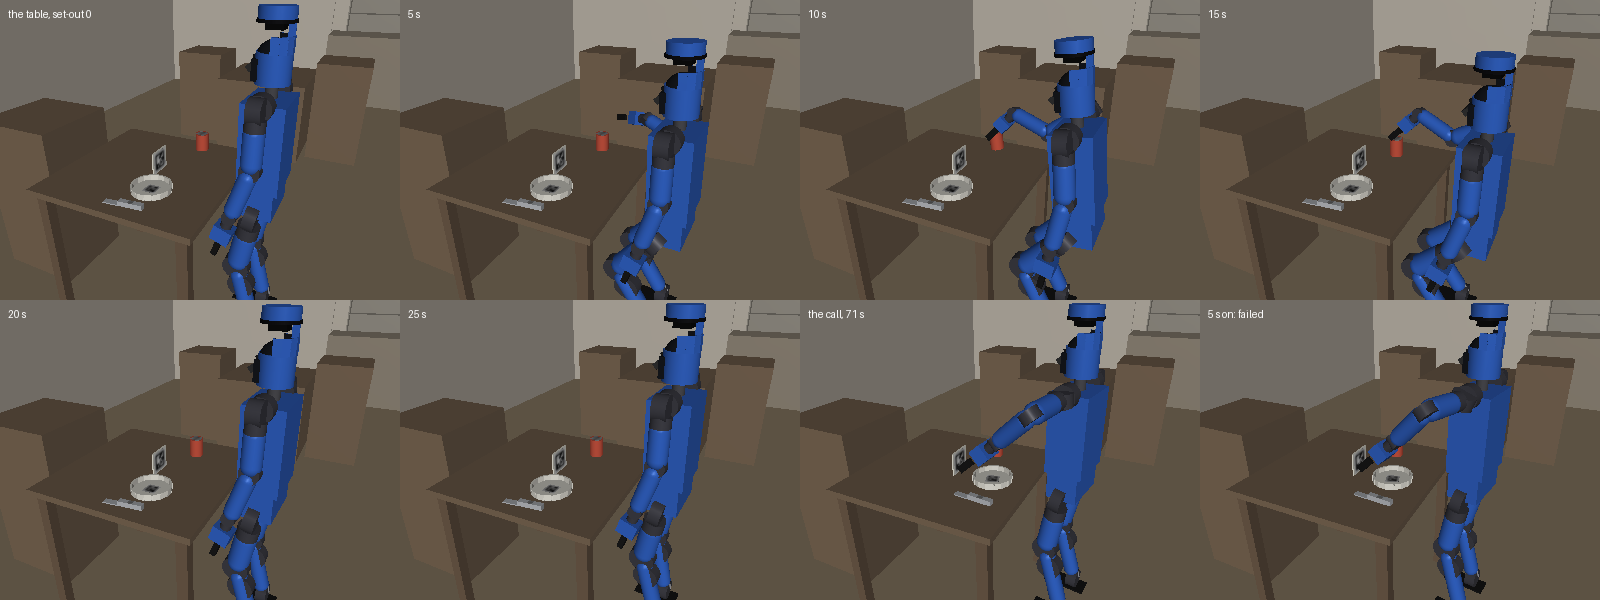
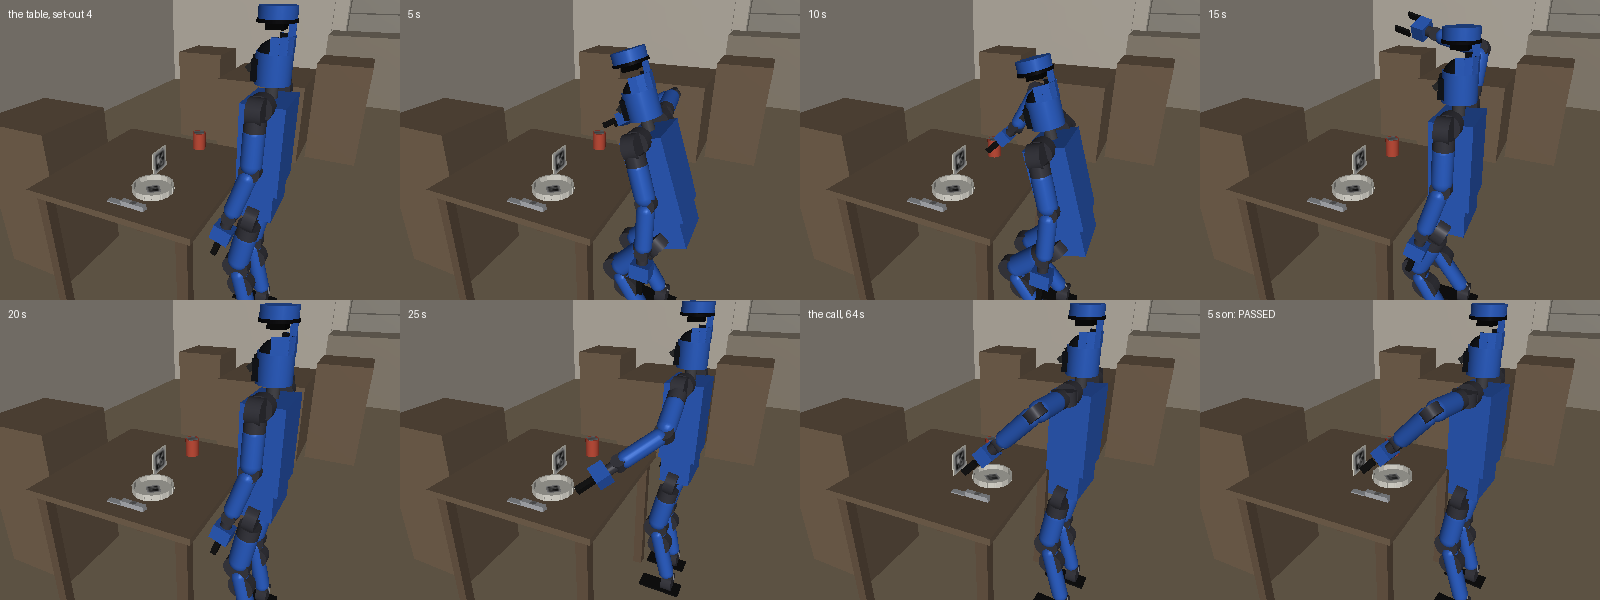
The table's procedure folds each arm before its piece is read and steps 0.26 m aside, and the docs say what the hands' fixes bought (#560)
Flown on one pod (a Threadripper 3970X, osmesa), before (fcfe05f) and after
the four fixes (04174b8):
- the checks at set-outs 0-7: the lid 6 to 7, the drawer 4 and 4, the door
  5 and 5, the cube 4 to 5, the table 0 to 1 (set-out 4 laid whole);
- the served jobs from the tour: the drawer 7 and 7, the door 8 and 8, the
  chest 5 and 5;
- the station: 36 of 36 docks and unplugs from round the standoff, 139 of
  140 seats, both trees;
- the table's pieces over 32 set-outs: the plate 9 to 22, the cup 21 and
  21, the fork 1 to 2; steps blocked 7 of 43 to none of 41.

The fold before each piece is read stays, for the read: the stance turns as
an arm goes out, and read before the reach the cup was laid 5 of 32. The
sidestep is 0.26 m: the step now lands where asked, and at 0.21 the plate
was laid 4 of 32 (before, 6 of 7 blocked steps' retries walked about 5 cm
further and gripped it).

The two flown reaches in tests/test_humanoid.py are given the side way out's
time (6 and 8 s), and the fake reaches an `ease`.

diff --git a/src/pluggybot/evaluation/hands_check.py b/src/pluggybot/evaluation/hands_check.py
@@ -246,19 +246,24 @@ PLACE = '''def place_cube():
 #: and each piece worked from a stance of its own, its hands home and empty
 #: between (`step`): the cup first, by the right hand, from where the robot
 #: stands; then a step to the right and the plate, pinched by its left wall,
-#: and a step back and the fork, by its handle, both by the left hand. The
-#: card is read again just before each reach -- the stance turns where the
-#: robot stands, 2-3 deg in its first seconds and a little with each move --
-#: and the plate and the fork are read from the start, as offsets from the
-#: card: flat on the table, their tags are out of the head camera's view
-#: nearer than about 0.37 m, and to its side after a step. Each piece is
-#: gripped from above and behind at 45 deg, lifted, carried at that height,
-#: set down by a force move holding its line until it presses on the table,
-#: let go, and the open hand lifted clear before it goes home.
+#: and a step back and the fork, by its handle, both by the left hand. Each
+#: arm is rolled out and folded (`move`) BEFORE the card and its piece are
+#: read: the stance turns as an arm goes out (SimNotes, "Setting a table"),
+#: and read first, the cup was 2-5 cm off where the hand came down on it
+#: (laid 5 of 32 where folded first 21). The card is read again just before
+#: each reach, and the plate and the fork from the start, as offsets from
+#: the card: flat on the table, their tags are out of the head camera's view
+#: nearer than about 0.37 m, and to its side after a step. The step aside
+#: is 0.26 m (0.21, the plate laid 4 of 32 to 22). Each piece is gripped
+#: from above and behind at 45 deg, lifted, carried at that height, set down
+#: by a force move holding its line until it presses on the table, let go,
+#: and the open hand lifted clear before it goes home.
 #: ⚠ IT DOES NOT MEET THE BAR (SimNotes, "Setting a table"): the bands the
 #: hands reach at a 0.72 m table are too narrow for every piece's grip.
 TABLE = '''def lay_place():
   budget(steps=120, seconds=400)
+  move("right_shoulder_roll", -0.9)
+  move("right_elbow", 1.4)
   open_hand("right")
   spot(93)
   u = read("spot.x") - 0.07
@@ -282,7 +287,9 @@ TABLE = '''def lay_place():
   fx = read("spot.x") - k
   fy = read("spot.y") - m
   for i in range(2):
-    step(0, 0.33 * i - 0.21)
+    step(0, 0.43 * i - 0.26)
+    move("left_shoulder_roll", 0.9)
+    move("left_elbow", 1.4)
     open_hand("left")
     spot(93)
     k = read("spot.x")

diff --git a/tests/test_humanoid.py b/tests/test_humanoid.py
@@ -486,7 +486,7 @@ def test_the_force_at_the_hand_is_read_off_the_arms_motor_currents():
   from pluggybot.humanoid.arms import FORWARD, HandGoal
   model, data, stand, reach = _standing()
   assert reach.reach("left", HandGoal(np.array([0.42, 0.2, 0.9]), FORWARD))
-  _fly(model, data, stand, reach, 3.0)
+  _fly(model, data, stand, reach, 6.0)
   assert reach.done("left")
   hand = model.body("left_hand").id
   site = model.site("left_grip").id
@@ -522,7 +522,7 @@ def test_a_hand_that_meets_something_on_its_way_stops_short():
   model, data, stand, reach = _standing(box)
   root = model.body(hm.ROBOT_ROOT).id
   assert reach.reach("left", HandGoal(np.array([0.55, 0.2, 0.94]), FORWARD))
-  _fly(model, data, stand, reach, 4.0)
+  _fly(model, data, stand, reach, 8.0)
   assert reach.phase["left"] == "blocked"
   # Standing in the posture its plan asked (a crouch), upright: not fallen.
   assert data.xpos[root][2] > 0.45 and data.xmat[root][8] > 0.9

diff --git a/tests/test_force_move.py b/tests/test_force_move.py
@@ -588,7 +588,8 @@ def test_the_humanoids_grip_shuts_with_the_force_asked():
       return 0.026, 15.0
   body = object.__new__(hb.HumanoidBody)
   grip = Grip()
-  body.mission = NS(to_stand_routine=lambda: iter(()), reach=NS(grippers={"left": grip}))
+  body.mission = NS(to_stand_routine=lambda: iter(()),
+                     reach=NS(grippers={"left": grip}, ease=lambda side: False))
   body.hold_routine = lambda seconds: iter(())
   for _ in body.grip_routine("left", True, 15.0):
     pass

diff --git a/docs/Hands.md b/docs/Hands.md
@@ -94,14 +94,14 @@ and its feet, which the walking policy moves.
 | `spot(tag)` | stands still and looks for a tag -- as it stands, then bowing lower (`SPOT_GAZES`) until it sees it -- and stands up again | `spot.x/y/z` (the face's middle), `spot.nx..nz` (into the thing it is on), `spot.ex..ez` (along an edge), `spot.range` | not in view from where it stands | the head camera's tag detector (`perception.tags`), `Body.gaze_routine` |
 | `watch(tag)` | keeps the head camera reading a tag while the procedure goes on, 15 pictures a second, each read 0.1 s after it was taken; ends with the procedure or the next `watch` | as `spot`'s, where the newest picture that showed it put it (`watch.*`), and `watch.seen` (whether the newest picture shows it), `watch.age` | not in view as it begins: it watches on | `spot`'s decode, placed through the robot's model of itself as its arm's loop last posed it (`perception.watch`) |
 | `measure(x, y)` | the depth camera's look at what stands at (x, y) | `object.top/near/far/left/right` | no flat top seen | the D435's cloud (`perception/box.py`) |
-| `reach(hand, x, y, z, fingers, jaws, stiffness)` | the grip to a point, turned as asked or as the arm finds; out to a point short of it, then in along the fingers | `hand.x/y/z`, `hand.fx..fz` | out of reach (and whether the other hand could, as asked or turned another way), turned as asked or not; stopped short. ⚠ What it touches on its way in under the blocking force can hold it a few cm short while it holds: the hand's place says where (§5) | the arm's IK on the robot's model of itself, a planned posture |
+| `reach(hand, x, y, z, fingers, jaws, stiffness)` | the grip to a point, turned as asked or as the arm finds; out to a point short of it -- straight in joint space, or round by its side where straight would sweep the arm low ahead of the robot (`Reach.way_out`, the way home's judgment) -- then in along the fingers | `hand.x/y/z`, `hand.fx..fz` | out of reach (and whether the other hand could, as asked or turned another way), turned as asked or not; stopped short. ⚠ What it touches on its way in under the blocking force can hold it a few cm short while it holds: the hand's place says where (§5) | the arm's IK on the robot's model of itself, a planned posture |
 | `via(hand, x, y, z, turn)` | adds a point to the hand's next move; nothing moves | -- | a path holds 40 points | -- |
 | `move_hand(hand, x, y, z, speed, stiffness, turn)` | a hand that is out carried along a line, or through its `via` points, as ONE motion from one posture | as `reach` | out of reach (planned or partway), held back | `Reach.carry`, `path_for` |
 | `pull(hand, dx, dy, dz, force, distance, speed, give)` | THE FORCE MOVE (§4), at most 20 N: what the standing body holds, pushing away around two thirds of it (#544) | `pull.moved`, `pull.force` (the hardest along its way, as felt), `pull.dx..dz` (the way the hand was going at its end) | ok whenever it pulled; why it stopped (distance, held fast, let go, out of reach, feet moved) is the record's | `Reach.pull` |
-| `close_hand(hand, force)` | shuts the gripper with at most `force` a pad, 5-120 N | `hand.held`, `hand.gap` | closed on nothing it holds | the Dex1-1's torque limit, its encoder and current |
+| `close_hand(hand, force)` | shuts the gripper with at most `force` a pad, 5-120 N, a hand pressed on what it met eased to where it is first (`Reach.ease`) | `hand.held`, `hand.gap` | closed on nothing it holds | the Dex1-1's torque limit, its encoder and current |
 | `open_hand(hand)` | opens the gripper | -- | -- | -- |
-| `withdraw(hand)` | the hand back along its way in, then the arm home: straight, or out to its side first and lowered there where that keeps the arm higher in front of the robot than straight would (SimNotes, "The way home"); ok once its drivers read it home | -- | not home by `RELEASE_S` (something holds it); a fall | `Reach.way_home` on the robot's model of itself, `Reach.home` |
-| `step(ahead, left, turn)` | the feet to the work, its hands home first: a turn on the spot, then a walk in the frame it then stands in -- one motion, or ahead then left where the walker would skew it -- and a stand; a walk goes at least a stride, about 10 cm | `step.dx/dy` (where the stance went, in the frame it stood in before), `step.turn`; the verb's text turns a place read before into the frame after | holding something (nothing moves), blocked, fell, out of time. ⚠ A turn's shuffle moves the feet 2-6 cm the report does not count | the walking policy, the legs' odometry |
+| `withdraw(hand)` | the hand back along its way in, then the arm home: straight, or out to its side first and lowered there, its shoulder pitched back, where that keeps the arm higher in front of the robot than straight would (SimNotes, "The way home"); ok once its drivers read it home | -- | not home by `RELEASE_S` (something holds it); a fall | `Reach.way_home` on the robot's model of itself, `Reach.home` |
+| `step(ahead, left, turn)` | the feet to the work, its hands home first: a turn on the spot, then a walk in the frame it then stands in -- one motion, or ahead then left where the walker would skew it -- and a stand; a walk goes at least a stride, about 10 cm | `step.dx/dy` (where the stance went, in the frame it stood in before), `step.turn`; the verb's text turns a place read before into the frame after | holding something (nothing moves), blocked (judged once its feet stride), fell, out of time. ⚠ A turn's shuffle moves the feet 2-6 cm the report does not count | the walking policy, the legs' odometry |
 
 Beside them stay `wait` and `move(axis, target)` -- the motor level, one arm
 joint walked to a setpoint -- and the sensors `time` and each hand's place,
@@ -243,7 +243,7 @@ its 8 set-outs** (`evaluation/hands_check.py`, `BAR`, `SET_OUTS`).
 | drawer | `challenge/drawer.py`: 15 cm out, let go | a cabinet on the counter, its knob where a chest's is | pull straight out |
 | door | `challenge/door.py`: 50 deg open, let go | a cupboard hinged on its left, its lever's tip 0.40-0.44 ahead | press the lever, let go, look: a door already open is done; else grip it lightly and pull toward the body, then on the hand's way |
 | place | `challenge/place.py`: on the mat within 2.5 cm, flat on a face, set down, let go | a cube 0.40-0.46 ahead on a 6 cm board -- in sight, out of reach where the robot stands -- the mat 6-8 cm further | a step in until the cube is 0.32 ahead, what it read turned into the frame it then stands in; grip it from above-front; lift, carry, set down holding the line |
-| table (#560) | `challenge/table.py`: a plate, a fork and a cup each at its spot off a place card, set down, let go | the dishware beside a place on the restaurant's table, the robot at the place (`counter.table_set_out`) | the cup by the right hand where it stands, then a step aside a piece for the plate and the fork by the left; each arm rolled out and folded before it reaches; the card read again before each reach |
+| table (#560) | `challenge/table.py`: a plate, a fork and a cup each at its spot off a place card, set down, let go | the dishware beside a place on the restaurant's table, the robot at the place (`counter.table_set_out`) | the cup by the right hand where it stands, then a step aside a piece for the plate and the fork by the left; each arm rolled out and folded before the card and its piece are read; the card read again before each reach |
 
 The procedures and what each knows that a mind would have to find out are
 in `hands_check.py`; `scripts/hands_check.py --source JOB` prints one.
@@ -269,12 +269,16 @@ docs/figures/hands_JOB.png`; `--view JOB K` watches one in the viewer.)
 | door | **6 of 8** | 2: opened 44 deg, its pull out of reach; 4: never opened, its reaches out of reach or stopped short |
 | place | 3 of 8 | 2, 4: the carry to the mat out of reach; 5, 7: let fall at 0.6 m/s; 6: set down 3 cm from the mat's middle |
 
-**The table's place (#560)**, a job added after: 0 of 8 -- not met, and
+**The table's place (#560)**, a job added after: 1 of 8 -- not met, and
 not offered; its pieces each at an edge of what the hands reach at a 0.72 m
-table (SimNotes, "Setting a table"). **The cube flown again** there, its
-drop now a free cube's fall (Ben's call): 4 of 8 (1, 3, 5, 6) -- 0, 2 and 4
-its carry out of reach after the grip turned the stance 4-6 deg, 7 its left
-gripper closed on nothing.
+table (SimNotes, "Setting a table"). **The hands' small fixes at a table**
+(#560's stage (a), SimNotes there): a step judged once its feet stride, a
+way out judged as the way home is, a pressed hand eased before it shuts,
+and the side way's roll in pitched back. Flown on one machine before and
+after them (a pod's Threadripper 3970X, osmesa): the lid 6 to 7, the drawer
+4 and 4, the door 5 and 5, the cube 4 to 5 (2 and 4 gained, the grip's
+scrub gone; 6 lost), the table 0 to 1 -- and the served jobs from the
+tour, the drawer 7 and 7, the door 8 and 8, the chest 5 and 5.
 
 **Our procedures were written against the set-outs they are checked on.**
 The review redrew the drawer's, the door's and the cube's set-outs (each
@@ -399,15 +403,18 @@ there (§4's "A tag watched while the robot moves").
   way): no slide or pivot verb, nor yet a job needing one.
 - **A walk with something in hand.** A step carries nothing: the walking
   policy walks with its arms home.
-- **A way home that looks, or feels.** The way home is judged on the
-  robot's model of itself alone (#539): it takes what the hand worked over
-  to lie under it ahead of the robot's front, and the space at its side to
-  be clear. Nothing checks either against the depth picture: an arm with
-  none of it ahead, as over its head, comes home straight through whatever
-  stands there, and a hand still caught on something after the line out
-  takes it along (a jaw left under a knob lifted a shut lid). A guard on
-  the hand's force could not yet tell that from a blocked reach's press
-  (SimNotes, "The way home").
+- **A way out or home that looks, or feels.** Both are judged on the
+  robot's model of itself alone (#539, #560): what the hand works over is
+  taken to lie under it ahead of the robot's front, and the space at its
+  side and behind its front to be clear -- the side way rolls the arm out
+  where it hangs and brings it in pitched back, clear on its model of a
+  surface at the robot's toes turned up to 10 deg to it; any nearer, and
+  its own rest is inside it. Nothing checks either against the depth
+  picture: an arm with none of it ahead, as over its head, comes home
+  straight through whatever stands there, and a hand still caught on
+  something after the line out takes it along (a jaw left under a knob
+  lifted a shut lid). A guard on the hand's force could not yet tell that
+  from a blocked reach's press (SimNotes, "The way home").
 - **A small thing low down, or a knob on a short stem.** The fingers are 8
   cm and the grip point their middle, so their tips meet the surface before
   a steep grip reaches a small object's middle (§5).

diff --git a/docs/SimNotes.md b/docs/SimNotes.md
@@ -2363,6 +2363,17 @@ read against the truth (`_true_stance`):
   a walk measured from before it counted as walked (ok, without a step),
   and the hand-over outlasted the 1 s a walk is given to get anywhere,
   which read as `blocked` on a bare floor.
+- *Nor is a walk judged before its feet stride* (#560): it is `blocked`
+  only once a sole is `odometry.SWAP_M` off the floor by its model of
+  itself and it then goes nowhere, or where none is in `STEP_START_S`.
+  Handed the standing policy's stance after a reach -- 23 cm between the
+  soles' middles, the walker's own 18 -- the walker loads its right foot
+  first whichever way it is asked: a sidestep to the left lifts within
+  0.25 s, one to the right shuffles 0.6-1.1 s first, its feet sliding where
+  the legs' reckoning cannot see (it read 0.6-3.9 cm of the 1.9-6.1 they
+  went), and 2 of 7 at the table's set-outs were blocked. The retry that
+  went had begun from the walker's own stance, which the shuffle had left;
+  waiting, or the walker held still first, changed neither.
 - *The walker skews an oblique walk*: it raises a forward speed under
   `V_MIN` to it and leaves the sideways one, so a step at `STEP_V` more than
   48 deg off straight ahead walked 12 cm further ahead than asked. Such a
@@ -2498,16 +2509,24 @@ under the hand with its edge 8 cm behind it (30):
 - The capability check (#525) is unchanged: the lid at 7 set-outs of 8,
   the drawer 3, the door 6 (set-outs 3 and 4 trading a pass: its
   procedure withdraws mid-job, and the reaches after begin from the arm
-  home), the cube 3, no falls. Its cube's last `withdraw` now says "held"
-  at 3 set-outs: the procedure steps in until the counter is 2-6 cm ahead
-  of the soles' middle, where the arm's own rest runs into it, and the jaw
-  comes down on its edge. The old walk home ended on the counter there
-  too, or on the cube's mat, and said ok.
+  home), the cube 3, no falls. Its cube's last `withdraw` now said "held"
+  at 3 set-outs, a jaw on the counter's edge (where, below). The old walk
+  home ended on the counter there too, or on the cube's mat, and said ok.
 
 ⚠ The side way assumes the space at the robot's side is clear, as
 straight assumed the space under the hand was: its hand goes out to 0.74 m
 from the body's middle, 1.0-1.1 m up. Nothing checks either against the
 depth picture, which does not see beside the robot.
+
+⚠ *Lowered in the hanging arm's line, it met a counter the robot stood
+turned to* (#560). The cube check steps in until its counter's face is 3-4
+cm ahead of the toes, and the step turns the stance 3.5-4 deg on its own;
+the side way's roll came in 9 cm ahead, out at 0.55 m to the side, where
+the turned face was nearer, and its pads came down on the top's edge, the
+roll in dragging them over it for 10 s at 30-48 N and turning the robot
+20 deg. The roll now comes in with the shoulder pitched back
+(`HOME_BACK`), then the arm forward to its rest: on its model that clears
+a counter at the toes turned 10 deg to it.
 
 ⚠ *A hand still caught after the line out is lifted by the side way.* In
 3 of those 9 tries a jaw was left under a drop handle's knob, its grip
@@ -5076,12 +5095,13 @@ table, is built and graded offline (Challenges.md §12): the dishware
 (`activity/dishware.py`: a plate pinched by its wall, a lidded cup taken
 across its body, a fork by its thick handle, and a place card), its grader,
 its set-out (`counter.table_set_out`) and our procedure (`hands_check.TABLE`,
-1,452 characters of the language's 1,500). **Our procedure does not meet the
-bar**, so the job is not offered: 0 of the check's 8 set-outs (the bar 6)
-and 0 of 32 public ones; laid by each piece's own criteria, the cup 21 of
-32 (0.3-2.5 cm off), the plate 7, the fork none (it comes last, after a
-step). Every part of the place sits at an edge of what this body reaches at
-a 0.72 m table, below.
+1,401 characters of the language's 1,500). **Our procedure does not meet the
+bar**, so the job is not offered: 1 of the check's 8 set-outs (the bar 6)
+and 1 of 32 public ones; laid by each piece's own criteria, the cup 21 of
+32, the plate 22, the fork 2 (it comes last, after a step) -- since the
+hands' small fixes (#560's stage (a), below; before them, on the same
+machine, 21, 9 and 1). Every part of the place sits at an edge of what this
+body reaches at a 0.72 m table, below.
 
 **Why the cube missed its mat** (#559's `place_cube`, 0 of 8; its check's
 procedure flown at set-outs 0-7, the truth beside the belief at every
@@ -5092,8 +5112,9 @@ verb):
   17 and 14 N at four contacts); the jaws then drag the pads across it as
   they shut, and the feet swivel 4-6 deg in 0.2 s. The mat, read in the
   stance frame before the grip, is 3.7-5.4 cm off by the carry (set-outs 0,
-  2 and 4, whose carries then ran out of reach). Where the shut turned it
-  0.5-1 deg (1 and 6) the cube was laid.
+  2 and 4, whose carries then ran out of reach). Eased to where it is
+  before its jaws shut (`Reach.ease`, stage (a)), the shut turns the soles
+  0.5-1.1 deg.
 - *A held cube's carry reads as a drop.* The carry's posture swings the
   hand +-5 cm at up to 1 m/s with the cube held fast, and the grader's 0.5
   m/s line, read at every step, failed two cubes set down 0.7 and 1.3 cm
@@ -5101,8 +5122,12 @@ verb):
   piece alone (Ben's call): re-flown, the check lays 4 of 8 (1, 3, 5 and
   6; the bar 6), the two carries 0.97 and 0.59 m/s held and 0.21 and 0.23
   free.
-- *The way home catches the counter*: a jaw on its edge, 15 s, the robot
-  turned 20 deg (1 and 6, after the cube was down).
+- *The way home caught the counter*: a jaw on its edge, 15 s, the robot
+  turned 20 deg (1 and 6, after the cube was down) -- the side way's roll
+  coming in at the robot's side, where the counter it stood turned to was
+  nearer; it now comes in pitched back ("The way home"), and turns the robot
+  0.2-1.8 deg. With both, the check lays 5 of 8 (2 and 4 gained, 6 lost;
+  4 of 8 before them, on the same machine).
 
 **What the table took, each measured** (a scratch world and the set-out,
 the humanoid at the table's south place; flights in
@@ -5115,11 +5140,13 @@ the humanoid at the table's south place; flights in
 - *A solid table meets the thighs.* Crouching to reach, the robot pressed
   the dining table's box with both thighs at about 200 N from 13 cm out; the
   set-out's table is a top on legs. The served room's tables are boxes.
-- *The way out sweeps a hanging hand into the table.* Standing 13 cm out,
-  the hanging hand is under the top and 4 cm from its side: a reach's
-  joint-space way out pushed into it until the robot fell, and opening a
-  hanging hand alone pushed 171 N. From 22 cm out it clears; from 13, an arm
-  first rolled out and folded (`move`) meets the table with 0 N.
+- *The way out swept a hanging hand into the table.* Standing 13 cm out,
+  the hanging grip is 7 mm behind the top's edge, its top at the
+  underside's height: straight in joint space, a reach's way out drove the
+  left forearm and gripper into the table at 353-359 N. It is judged as the
+  way home is now (`Reach.way_out`, stage (a)): from the hanging arm, round
+  by its side, and the table is met with 0 N. Opening a hanging hand alone
+  pushed 171 N (#615's scratch world).
 - *Each hand works its own side, in bands.* Flown from 13 cm out at the
   legged table: fingers straight down at |y| 0.24-0.40 m (0.18-0.42 ahead),
   tilted 45-60 deg at |y| 0.24-0.48 (0.30-0.48 ahead), and a near strip at
@@ -5128,18 +5155,26 @@ the humanoid at the table's south place; flights in
   only 2-3 cm above its grasp's height (fingers down at the cup: 0.82 m held,
   0.84 out of reach). So a place and its dishware need a stance a piece --
   the robot sidesteps, its hands empty -- and a stance's window is about 3
-  cm wide where a sidestep lands +-3 cm: the plate's wall, read right, was
-  past the band at 19 of 32 grips (the left gripper "closed on nothing").
+  cm wide: at a 0.21 m sidestep the plate's wall, read right, was past the
+  band at 19 of 32 grips (the left gripper "closed on nothing"). A blocked
+  step's retry walked about 5 cm further (its slide unseen), and 6 of 7
+  such gripped the plate where 5 of 24 others did: at 0.26 m, the step now
+  landing where it is asked (stage (a)), the plate is laid 22 of 32.
 - *Flat tags* read to 2-4 mm from 0.37-0.53 m ahead, nothing nearer, and
   nothing 45 deg to the side after a 0.21 m step: the plate and the fork
   are read from the start, as offsets from the card.
 - *The stance turns where it stands*: 2-3 deg in its first seconds after a
-  set-out (4.9 deg in 15 s), and 0.5-1 deg with each arm move -- a place
-  read before is stale, 1-2 cm at 0.4 m; the card is read again before each
-  reach.
-- *A sidestep right after an arm's way home went nowhere* in its first
-  second and was "blocked" (6 of 32 tries); begun 3 s later, the same step
-  stepped. Our procedure tries a blocked step again.
+  set-out (4.9 deg in 15 s), and as an arm goes out, the reaching side's
+  foot 7.5-8.6 deg a reach to the cup -- the same at half and a quarter of
+  the arm's speed, so the standing policy's stance under an arm held out,
+  not its swing. A place read before is stale; the card is read again
+  before each reach, and each arm is rolled out and folded (`move`) before
+  its piece is read: read first, the hand came down on the cup's rim 2-5
+  cm off, and it was laid 5 of 32 where 21.
+- *A sidestep after an arm's way home was "blocked"* (6 of 32 tries): the
+  walker shuffled its first second, unseen (Stepping toward the work); a
+  walk is judged once its feet stride now (stage (a)), and none of 41
+  blocked.
 - *The reach's approach starts where the posture left the hand*, 3-5 cm
   from its pre-grasp, and converges diagonally: tall things are clipped.
   Sent through its pre-grasp instead (`Reach`, tried and not kept), the cup
@@ -5147,10 +5182,11 @@ the humanoid at the table's south place; flights in
 - *Shape is not the plate's trouble*: a 4 cm wall and a 3 cm handle laid 8
   plates of 32 and no fork.
 
-![Our procedure at the table's set-out 0: the cup carried by the right hand
-and set down by the card (5-20 s), then -- after a step and the plate, out
-of these tiles -- the fork's carry run out of reach, the left arm still out
-over the place at the call (`scripts/hands_check.py --strip table 0`;
+![Our procedure at the table's set-out 4, the first place it laid: the cup
+carried by the right hand and set down by the card (5-10 s), that arm home
+the side way (15 s), then a step aside and the plate, a step back and the
+fork, both by the left hand -- the plate 1.5 cm, the cup 1.5 and the fork
+2.1 from where each goes (`scripts/hands_check.py --strip table 4`;
 `--view table K` watches one)](figures/hands_table.png)
 
 ## Debugging workflow that worked

diff --git a/CLAUDE.md b/CLAUDE.md
@@ -326,7 +326,12 @@ save a filmstrip PNG named after the script.
   (#520). ⚠ A WITHDRAW IS OK ONCE ITS ARM IS HOME (`Reach.home`: the rest
   commanded and read by its drivers), by the way `Reach.way_home` judges
   on the same model: straight in joint space, an arm raised before its
-  shoulder came down on the counter's edge (#539). ⚠ No force guard on
+  shoulder came down on the counter's edge (#539), and its side way's roll
+  comes in pitched back (`reach.HOME_BACK`: lowered in the hanging arm's
+  line, it dragged a jaw over a counter the robot stood turned to for 10 s,
+  #560). ⚠ A REACH'S WAY OUT IS JUDGED SO TOO, from its other end
+  (`Reach.way_out`, #560): straight, a hanging grip at a table 13 cm out was
+  driven into its top. ⚠ No force guard on
   it: at `BLOCKED_N` one stopped a blocked reach's press as well as a
   caught jaw, and cost the lid check 2 of its 7 (SimNotes, "The way
   home"). Training's arms are SCRIPTED,
@@ -790,12 +795,17 @@ save a filmstrip PNG named after the script.
   takes the Dex1-1's 5-120 N, `held` against half of it ⚠ ON THE
   SQUEEZE'S RUNNING MEAN (`arms.SQUEEZE_S`, sampled every physics step:
   one reading's 5.1 N of noise misread a 15 N grip 7 % of the time): ⚠ at
-  120 N a lever could not turn in the jaws. The FEET's move is `step`
+  120 N a lever could not turn in the jaws; ⚠ a hand pressed on what it met
+  is eased to where it is before it shuts (`Reach.ease`, `EASE_N`: pressed,
+  a cube's jaws dragged across its board and the feet swivelled 4-6 deg,
+  #560). The FEET's move is `step`
   (`HumanoidBody.step_routine`, `tests/test_step.py`): hands home and
   empty, a turn on the spot and a walk on the walking policy, its report
   where the stance went in the frame before (`step.*`) -- ⚠ measured only
   once the walker has the legs (out of a bow the pelvis came 16 cm forward
-  on its own), an oblique step the walker would skew walked as two, a
+  on its own), ⚠ `blocked` only once its feet stride (`STEP_START_S`: from
+  the stand's stance after a reach a sidestep to the right slid 0.6-1.1 s,
+  unseen by its odometry, #560), an oblique step the walker would skew walked as two, a
   turn's 2-6 cm of shuffle uncounted (the odometry is worse over it); ⚠ a
   humanoid with a hand out keeps its posture to look (a bow carried the
   hand 43 cm up). A verb test and the maths are in every hands

diff --git a/docs/Evaluation.md b/docs/Evaluation.md
@@ -1837,17 +1837,19 @@ the reference: 19 of 32 [0.42, 0.74] at one try.
 **The table's place, its reference first** (#560's first task, easy mode;
 Challenges.md §12): our procedure in the hands' vocabulary
 (`hands_check.TABLE`) flown over its set-outs before any mind practices it,
-the bar the check's, 6 of set-outs 0-7, written before this job was. **0 of
-8, the bar not met, and 0 of 32 public set-outs** [0.00, 0.11]; by each
-piece's own criteria the cup was laid 21 times, the plate 7 and the fork
-never (it comes last). So by §7's ladder A the job is a defect, not an
+the bar the check's, 6 of set-outs 0-7, written before this job was. **1 of
+8, the bar not met, and 1 of 32 public set-outs**; by each piece's own
+criteria the cup was laid 21 times, the plate 22 and the fork twice (it
+comes last) -- since the hands' small fixes (#560's stage (a)); before
+them, on the same machine, 21, 9 and once, and no place (#615's own
+machine: 21, 7 and none). So by §7's ladder A the job is a defect, not an
 offer: what this body reaches at a 0.72 m table, a stance a piece, is
-narrower than a sidestep lands (SimNotes, "Setting a table"). No practice
+narrower than the work (SimNotes, "Setting a table"). No practice
 arm has flown it. One try on the deployed model, a smoke of the harness,
 ran it end to end and wrote no procedure that ran: its first answer spent
 its 128,000 tokens thinking, and its sources then came to 5,458, 1,915 and
 1,608 characters, each over the language's 1,500 ($0.11) -- ours fits at
-1,452 only pressed hard.
+1,401.
 
 ## 5. What silently invalidates a number
 
